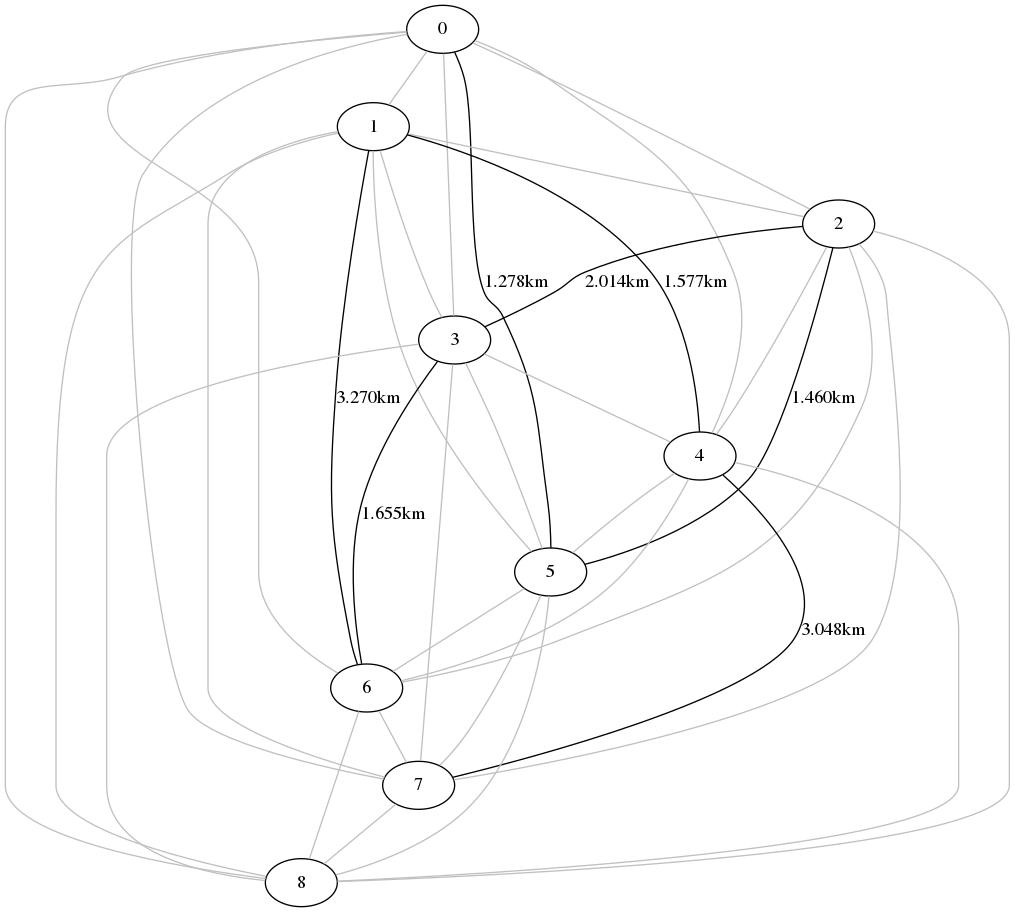
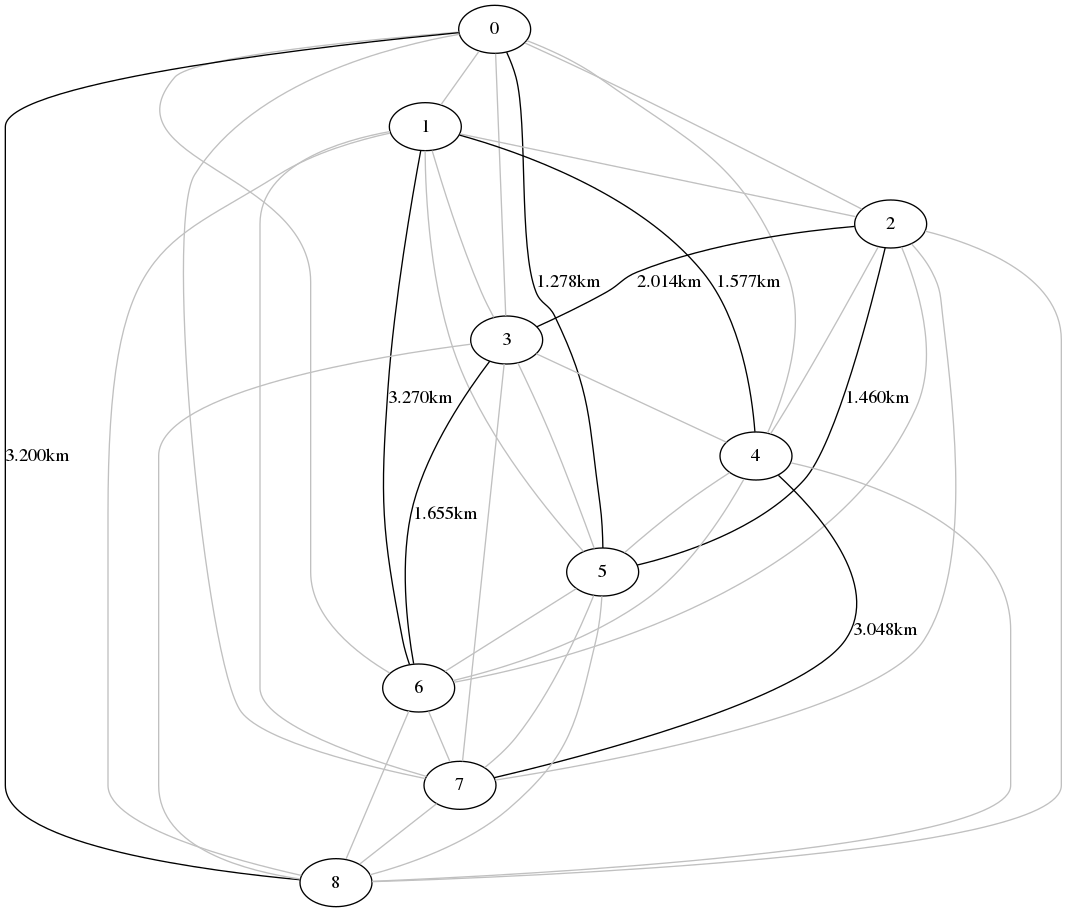
correcoes no graphviz

diff --git a/src/esinstancias/saidainstancias.py b/src/esinstancias/saidainstancias.py
@@ -181,12 +181,19 @@ def grafo_solucao_pcv(dic_instancia, solucao_pcv):
     arq = open(file, 'w')
     #primeira linha como padrao da linguagem
     arq.write('strict graph {\n')
-    
+
     for i in range(len(distancia)-1):
         for j in range(i, len(distancia[i])-1):
             #ignoro as distancias entre si mesmos e as 'infinitas' ditas '9999'
             if i != j:
-                if j == solucao_pcv[solucao_pcv.index(i)+1]:
+                if i == 0 and j == solucao_pcv[len(solucao_pcv)-2]:
+                    arq.write(str(i)
+                              +'--'
+                              + str(j)
+                              + ' [label =  "'
+                              + "%.3f" %distancia[0][solucao_pcv[len(solucao_pcv)-2]]
+                              + 'km"];\n')
+                elif j == solucao_pcv[solucao_pcv.index(i)+1]:
                     arq.write(str(i)
                               + '--'
                               + str(j)

diff --git a/src/principal.py b/src/principal.py
@@ -73,8 +73,9 @@ def main():
             ##### saidasolucao.cria_graficos(dic_instancia_corrente,dic_solucao_corrente, configuracoes)
             ##### saidasolucao.cria_estatisticas(dic_instancia_corrente,dic_solucao_corrente, configuracoes)
 
-        except:
+        except Exception as e:
             print(f"\nErro em {instancia_corrente}.\n")
+            print (e)
             continue
     print("\nFim.\n")
 ###############################################################################
